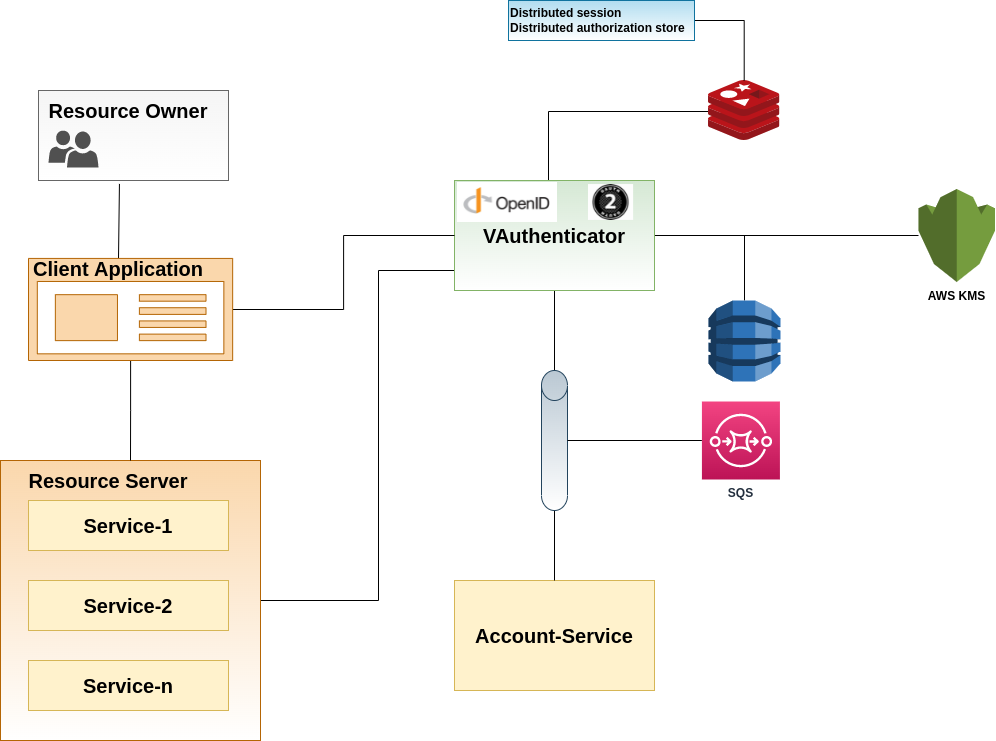
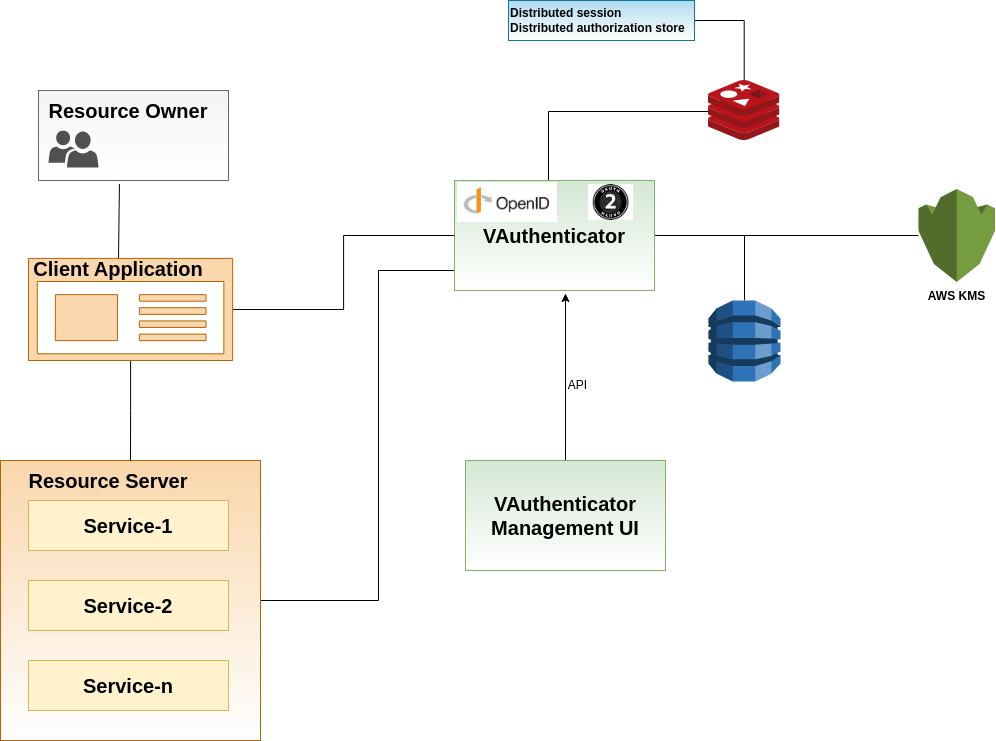
[skip ci] docs

diff --git a/README.md b/README.md
@@ -13,13 +13,25 @@ all written in Kotlin based on Spring Boot 2.x and more over to the latest sprin
 ## Features
 Right now it is based, as said before to the latest version on spring oauth2/open id connect framework [spring-authorization-server](https://github.com/spring-projects-experimental/spring-authorization-server).
 
-Client Applications, roles and openid projection of accounts are stored in a DynamoDB, while for authorization code, distributed session store and 
-distributed cache, Redis store is my choice. 
-VAuthenticator and the [account-service](https://github.com/mrFlick72/account-service) are synchronized with a secure AWS SQS channel, 
-while the RSA key pair are created from KMS Customer Master Key stored on Dynamo, private key crypted via KMS of course.
-VAuthenticator implements front_channel single logout openid connect specification and part of session management, in particular only 
-the needed to support a better single logout experience is implemented, however I planned to implement full session management as well
+**API:**
 
-# Additional content
+- Client Applications management  
+- roles management
+- account management
+- sign up: admin:signup scope is required
+- welcome mail: admin:welcome scope is required
+- email verification: admin:mail-verify scope is required
+- reset password: admin:reset-password scope is required
 
-[helm](docs/helm.md)
+**Storage:**
+
+- DynamoDB 
+- Redis:
+  - authorization code
+  - distributed session store
+  - distributed cache
+- RSA key pair are created from KMS Customer Master Key stored on Dynamo, private key encrypted via KMS of course stored on Dynamo.
+
+**General Feature:**
+
+VAuthenticator implements front_channel single logout openid connect specification session management
